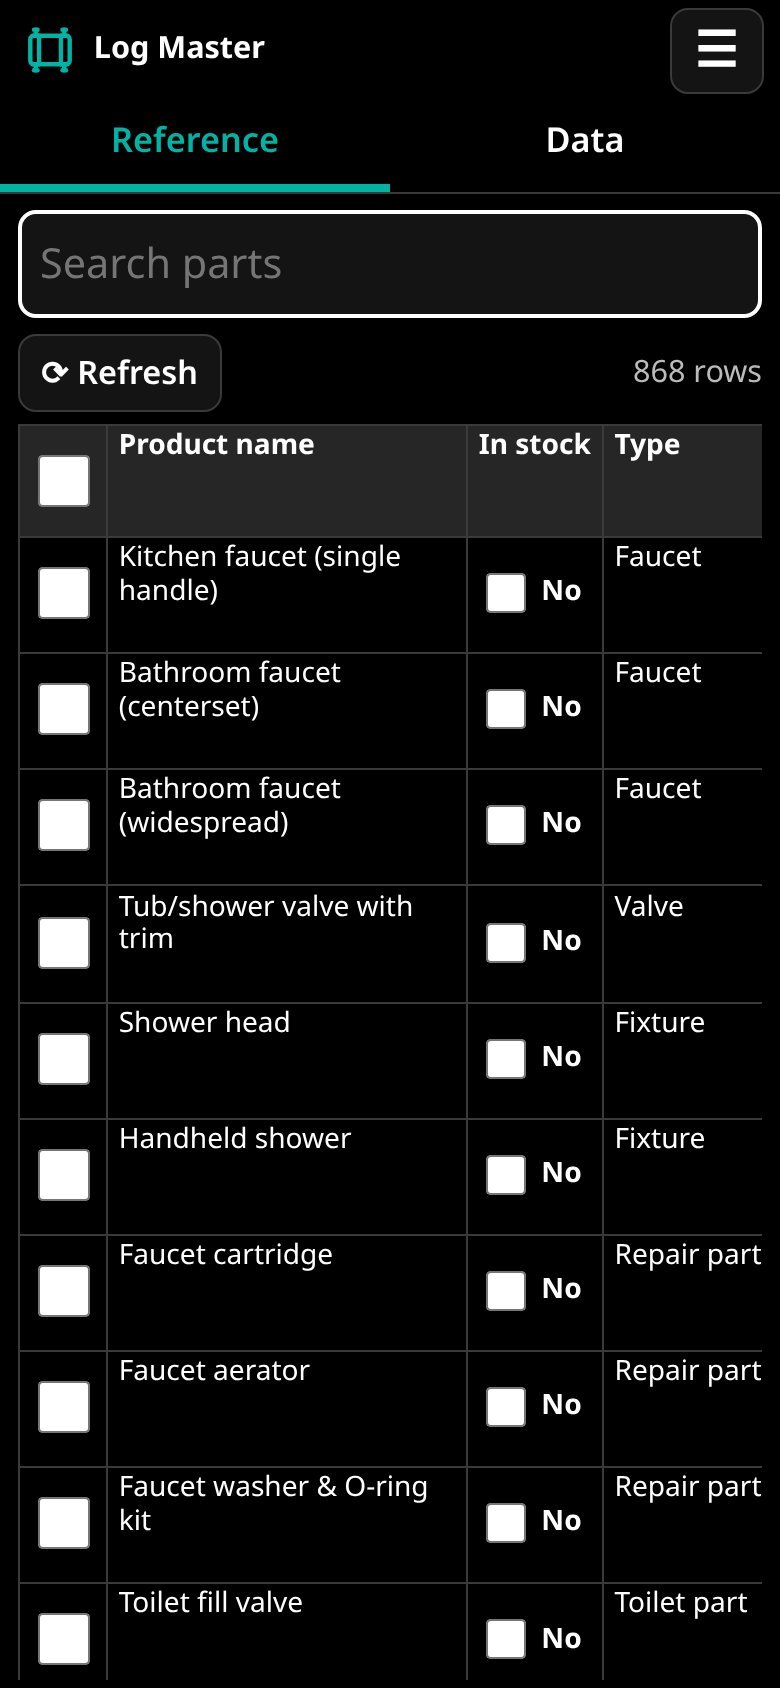
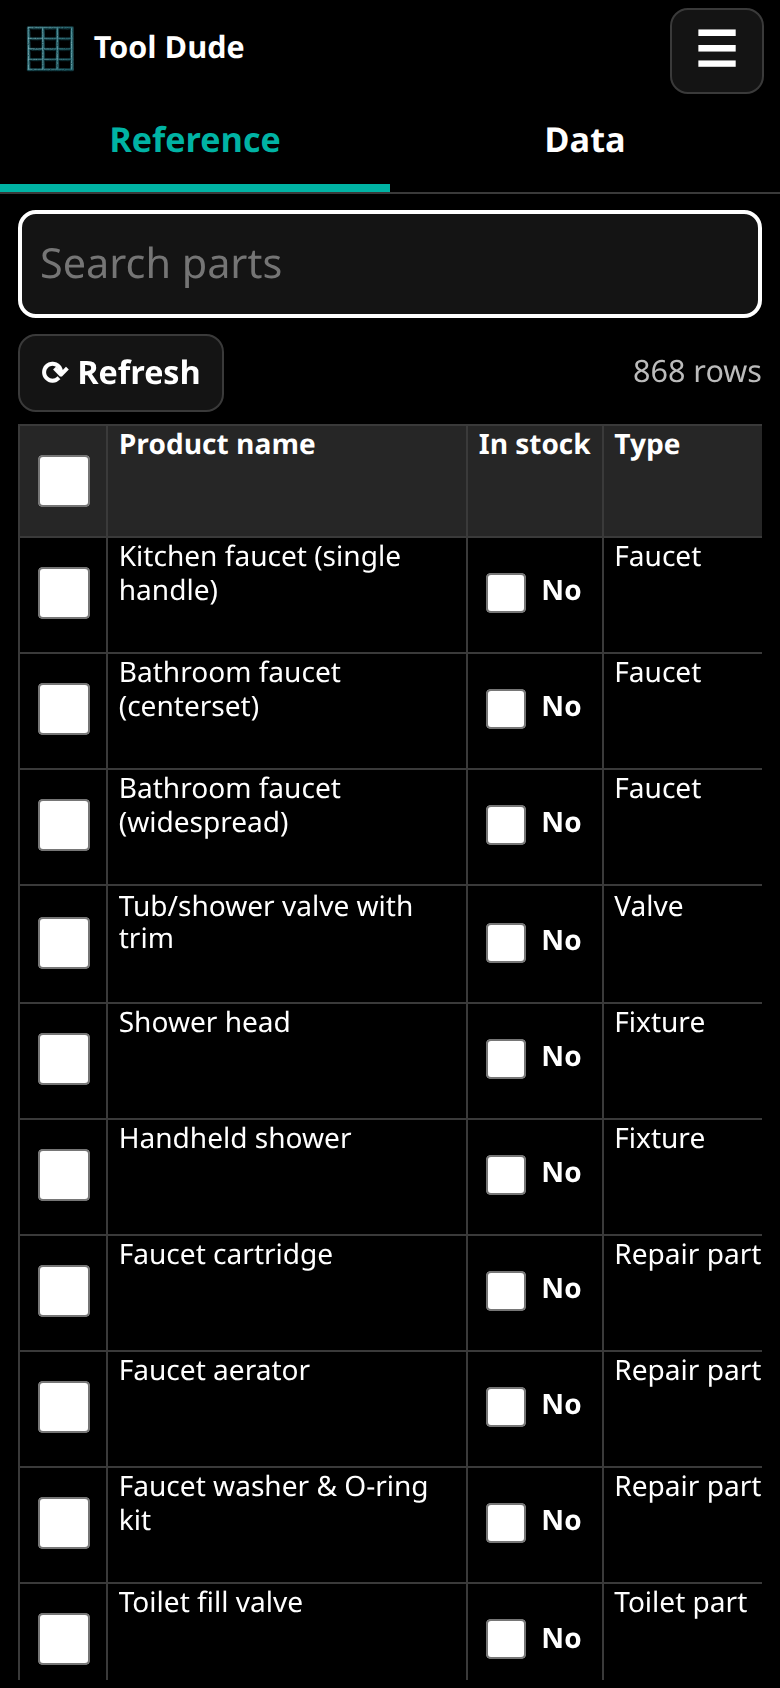
Point the site at Tool Dude and drop the old names
Update app and zip links, comments, and catalog schema ids, and replace the phone screenshots with views from the renamed app.

diff --git a/downloads.html b/downloads.html
@@ -1,6 +1,6 @@
 <!DOCTYPE html>
 <!--
-  Log Master website — Downloads page
+  Tool Dude website — Downloads page
   Edit the wording on this page in the <main> section below.
   The header and footer are repeated in each HTML file, so update a link
   or the copyright line in every page. Colors, fonts, and layout live in css/styles.css.
@@ -41,7 +41,7 @@
             <li><a href="faq.html">FAQ</a></li>
             <li><a href="about.html">About</a></li>
             <li><a href="contact.html">Contact</a></li>
-            <li><a class="header-cta" href="https://selfnow5784-collab.github.io/log-master/">Open the app</a></li>
+            <li><a class="header-cta" href="https://selfnow5784-collab.github.io/tool-dude/">Open the app</a></li>
           </ul>
       </nav>
     </div>
@@ -60,7 +60,7 @@
           <h2>Install Tool Dude</h2>
           <p>Open the app, then install it so it works like other apps on your device. After that, it works offline.</p>
           <div class="actions">
-            <a class="btn btn-primary" href="https://selfnow5784-collab.github.io/log-master/">Install Tool Dude</a>
+            <a class="btn btn-primary" href="https://selfnow5784-collab.github.io/tool-dude/">Install Tool Dude</a>
           </div>
           <ol class="steps">
             <li><span class="n">1</span><span><strong>iPhone (Safari):</strong> tap Share, then Add to Home Screen.</span></li>
@@ -73,7 +73,7 @@
           <h2>Source code</h2>
           <p>A zip of the app’s current code, with no catalog data in it.</p>
           <div class="actions">
-            <a class="btn btn-ghost" href="https://github.com/selfnow5784-collab/log-master/archive/refs/heads/main.zip">Download source code (.zip)</a>
+            <a class="btn btn-ghost" href="https://github.com/selfnow5784-collab/tool-dude/archive/refs/heads/main.zip">Download source code (.zip)</a>
           </div>
           <p class="note">App code only. Setup and hosting steps are in the README inside the zip.</p>
         </section>

diff --git a/index.html b/index.html
@@ -1,6 +1,6 @@
 <!DOCTYPE html>
 <!--
-  Log Master website — Home page
+  Tool Dude website — Home page
   Edit the wording on this page in the <main> section below.
   The header and footer are repeated in each HTML file, so update a link
   or the copyright line in every page. Colors, fonts, and layout live in css/styles.css.
@@ -41,7 +41,7 @@
             <li><a href="faq.html">FAQ</a></li>
             <li><a href="about.html">About</a></li>
             <li><a href="contact.html">Contact</a></li>
-            <li><a class="header-cta" href="https://selfnow5784-collab.github.io/log-master/">Open the app</a></li>
+            <li><a class="header-cta" href="https://selfnow5784-collab.github.io/tool-dude/">Open the app</a></li>
           </ul>
       </nav>
     </div>
@@ -53,7 +53,7 @@
         <img class="hero-logo" src="assets/icon-grid.png" width="200" height="200" alt="">
         <h1>Tool Dude</h1>
         <p class="lede">Your inventory reference, offline and in your pocket.</p>
-        <a class="btn btn-primary" href="https://selfnow5784-collab.github.io/log-master/">Open the app</a>
+        <a class="btn btn-primary" href="https://selfnow5784-collab.github.io/tool-dude/">Open the app</a>
       </section>
 
       <nav class="card-row" aria-label="Site pages">

diff --git a/contact.html b/contact.html
@@ -1,6 +1,6 @@
 <!DOCTYPE html>
 <!--
-  Log Master website — Contact page
+  Tool Dude website — Contact page
   Edit the wording on this page in the <main> section below.
   The header and footer are repeated in each HTML file, so update a link
   or the copyright line in every page. Colors, fonts, and layout live in css/styles.css.
@@ -41,7 +41,7 @@
             <li><a href="faq.html">FAQ</a></li>
             <li><a href="about.html">About</a></li>
             <li><a href="contact.html" aria-current="page">Contact</a></li>
-            <li><a class="header-cta" href="https://selfnow5784-collab.github.io/log-master/">Open the app</a></li>
+            <li><a class="header-cta" href="https://selfnow5784-collab.github.io/tool-dude/">Open the app</a></li>
           </ul>
       </nav>
     </div>

diff --git a/about.html b/about.html
@@ -1,6 +1,6 @@
 <!DOCTYPE html>
 <!--
-  Log Master website — About page
+  Tool Dude website — About page
   Edit the wording on this page in the <main> section below.
   The header and footer are repeated in each HTML file, so update a link
   or the copyright line in every page. Colors, fonts, and layout live in css/styles.css.
@@ -45,7 +45,7 @@
             <li><a href="faq.html">FAQ</a></li>
             <li><a href="about.html" aria-current="page">About</a></li>
             <li><a href="contact.html">Contact</a></li>
-            <li><a class="header-cta" href="https://selfnow5784-collab.github.io/log-master/">Open the app</a></li>
+            <li><a class="header-cta" href="https://selfnow5784-collab.github.io/tool-dude/">Open the app</a></li>
           </ul>
       </nav>
     </div>

diff --git a/faq.html b/faq.html
@@ -1,6 +1,6 @@
 <!DOCTYPE html>
 <!--
-  Log Master website — FAQ page
+  Tool Dude website — FAQ page
   Edit the wording on this page in the <main> section below.
   The header and footer are repeated in each HTML file, so update a link
   or the copyright line in every page. Colors, fonts, and layout live in css/styles.css.
@@ -41,7 +41,7 @@
             <li><a href="faq.html" aria-current="page">FAQ</a></li>
             <li><a href="about.html">About</a></li>
             <li><a href="contact.html">Contact</a></li>
-            <li><a class="header-cta" href="https://selfnow5784-collab.github.io/log-master/">Open the app</a></li>
+            <li><a class="header-cta" href="https://selfnow5784-collab.github.io/tool-dude/">Open the app</a></li>
           </ul>
       </nav>
     </div>

diff --git a/screenshots.html b/screenshots.html
@@ -1,6 +1,6 @@
 <!DOCTYPE html>
 <!--
-  Log Master website — Screenshots page
+  Tool Dude website — Screenshots page
   Edit the wording on this page in the <main> section below.
   The header and footer are repeated in each HTML file, so update a link
   or the copyright line in every page. Colors, fonts, and layout live in css/styles.css.
@@ -51,7 +51,7 @@
             <li><a href="faq.html">FAQ</a></li>
             <li><a href="about.html">About</a></li>
             <li><a href="contact.html">Contact</a></li>
-            <li><a class="header-cta" href="https://selfnow5784-collab.github.io/log-master/">Open the app</a></li>
+            <li><a class="header-cta" href="https://selfnow5784-collab.github.io/tool-dude/">Open the app</a></li>
           </ul>
       </nav>
     </div>

diff --git a/guide.html b/guide.html
@@ -1,6 +1,6 @@
 <!DOCTYPE html>
 <!--
-  Log Master website — User Guide page
+  Tool Dude website — User Guide page
   Edit the wording on this page in the <main> section below.
   The header and footer are repeated in each HTML file, so update a link
   or the copyright line in every page. Colors, fonts, and layout live in css/styles.css.
@@ -41,7 +41,7 @@
             <li><a href="faq.html">FAQ</a></li>
             <li><a href="about.html">About</a></li>
             <li><a href="contact.html">Contact</a></li>
-            <li><a class="header-cta" href="https://selfnow5784-collab.github.io/log-master/">Open the app</a></li>
+            <li><a class="header-cta" href="https://selfnow5784-collab.github.io/tool-dude/">Open the app</a></li>
           </ul>
       </nav>
     </div>

diff --git a/css/industrial.css b/css/industrial.css
@@ -1,4 +1,4 @@
-/* Tool Shelf industrial theme (mockup). Loads after styles.css. */
+/* Tool Dude industrial theme (mockup). Loads after styles.css. */
 :root{
   --font-serif:"Barlow Condensed","Arial Narrow",sans-serif;
   --steel:#15181b; --steel-2:#1b1f23; --rivet:#8fb5b0; --radius:4px;

diff --git a/css/styles.css b/css/styles.css
@@ -1,4 +1,4 @@
-/* Log Master website styles.
+/* Tool Dude website styles.
    Colors, fonts, spacing, and layout live in this file.
    Teal is #00b3a4. Change :root below to restyle the whole site. */
 
